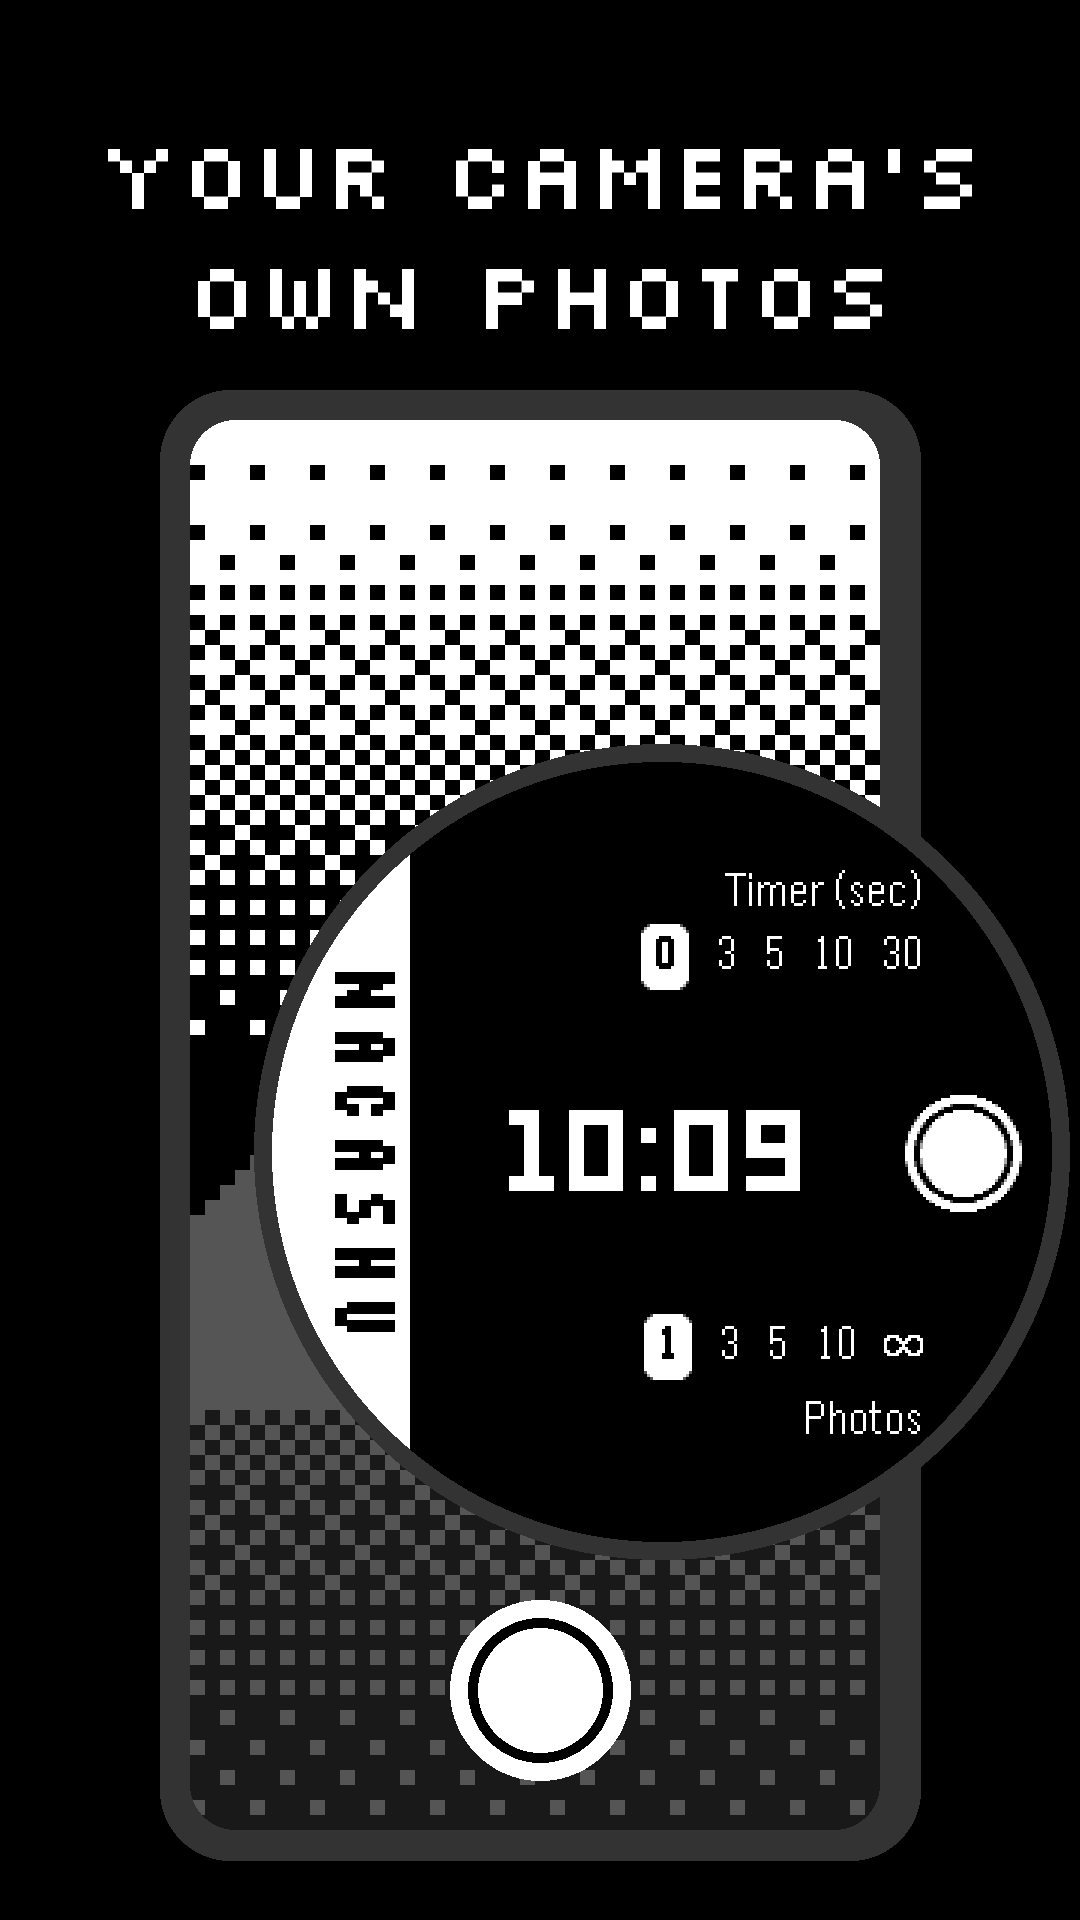
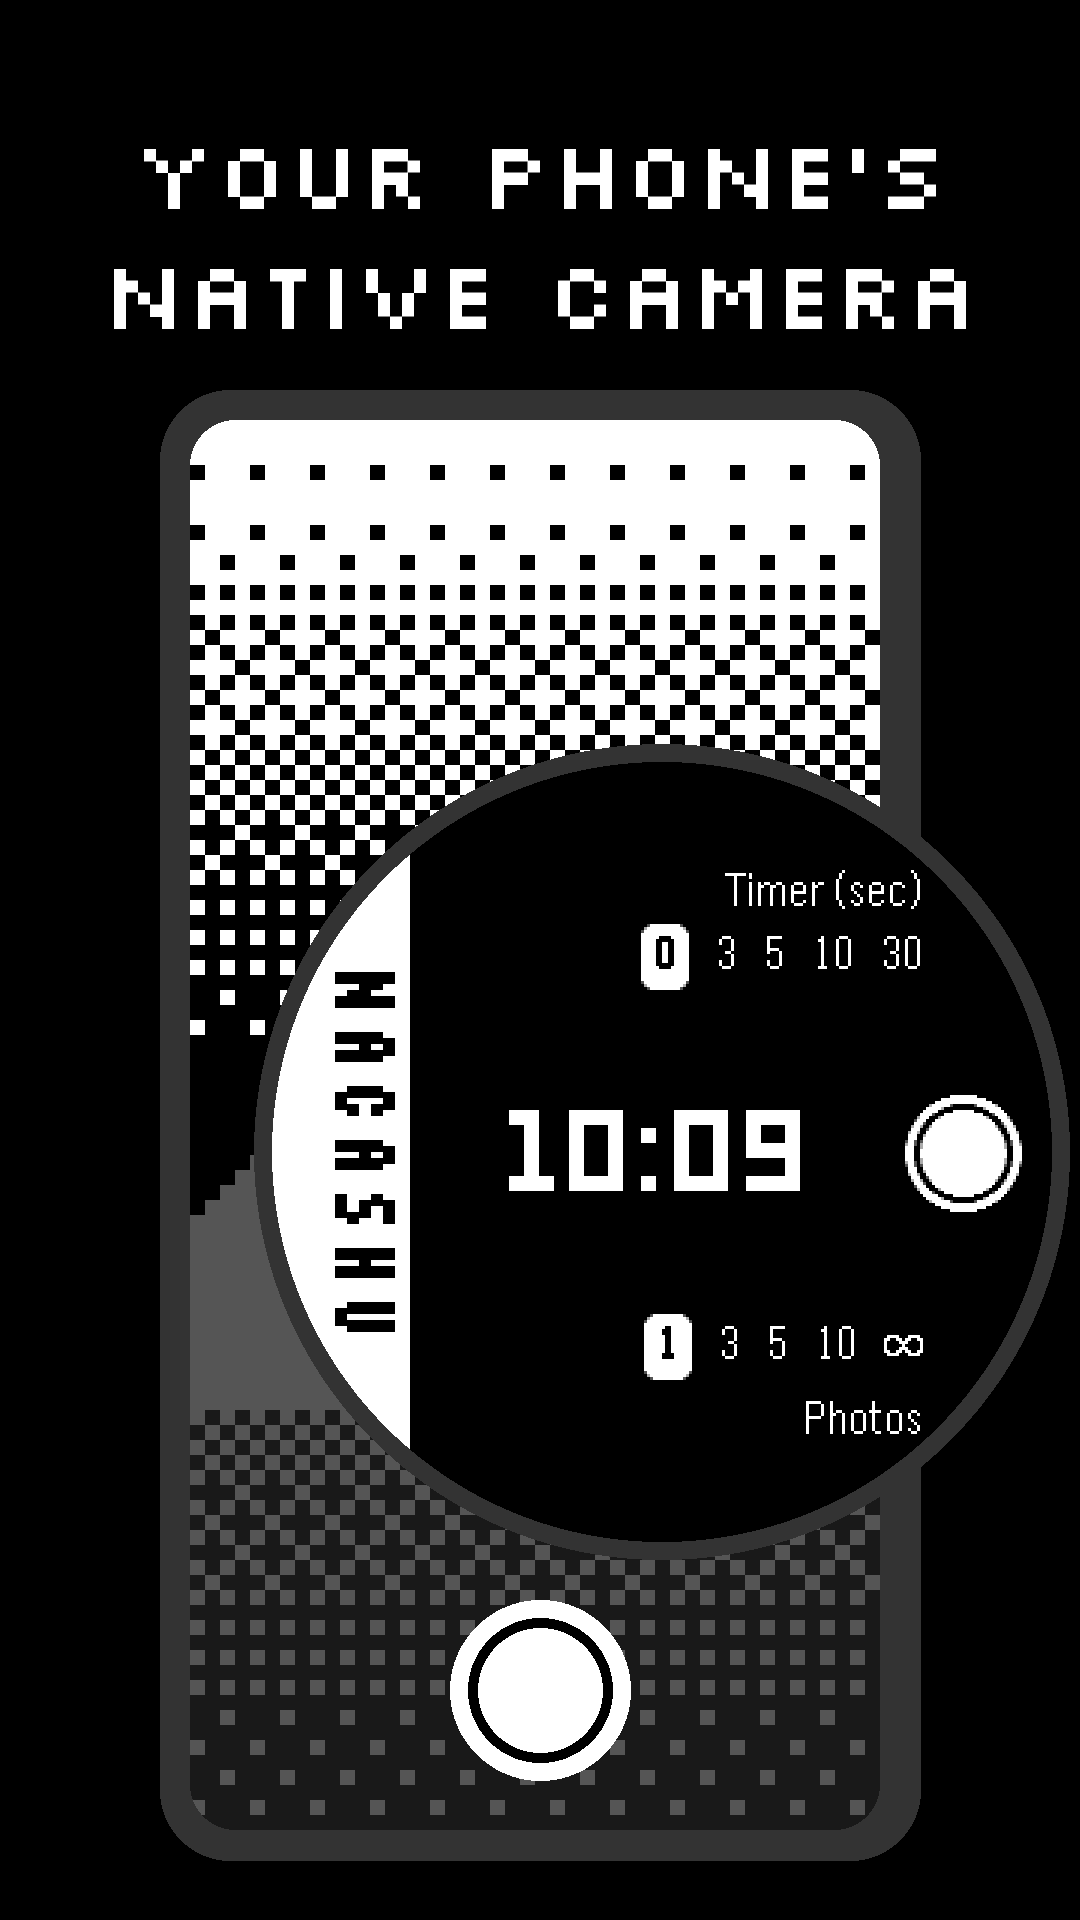
Screenshot 3 caption: Your phone's native camera
Claude-Session: https://claude.ai/code/session_016qf2GgT2tLT2mnJt2QRVqN

Changed region(s): [[0.0917, 0.0625, 0.9167, 0.1875]]

diff --git a/watch/tools/make_store_images.py b/watch/tools/make_store_images.py
@@ -199,7 +199,7 @@ Image.open(DOCS / "icon.png").convert("RGB").resize((512, 512), Image.NEAREST).s
 feature_graphic(out / "featureGraphic.png")
 phone_screenshot(["SNAP FROM", "YOUR WRIST"], "emery-2-snap", out / "phoneScreenshots/1-snap.png")
 phone_screenshot(["TIMER AND", "BURSTS"], "emery-3-choices", out / "phoneScreenshots/2-timer.png")
-phone_screenshot(["YOUR CAMERA'S", "OWN PHOTOS"], "gabbro-1-ready", out / "phoneScreenshots/3-processing.png", round_screen=True)
+phone_screenshot(["YOUR PHONE'S", "NATIVE CAMERA"], "gabbro-1-ready", out / "phoneScreenshots/3-processing.png", round_screen=True)
 def pebble_icon(size, path, invert=False):
     """The 32x32 icon at the biggest whole-number scale that fits, centred on a square of size.
     invert swaps black and white (the grey straps stay grey)."""
